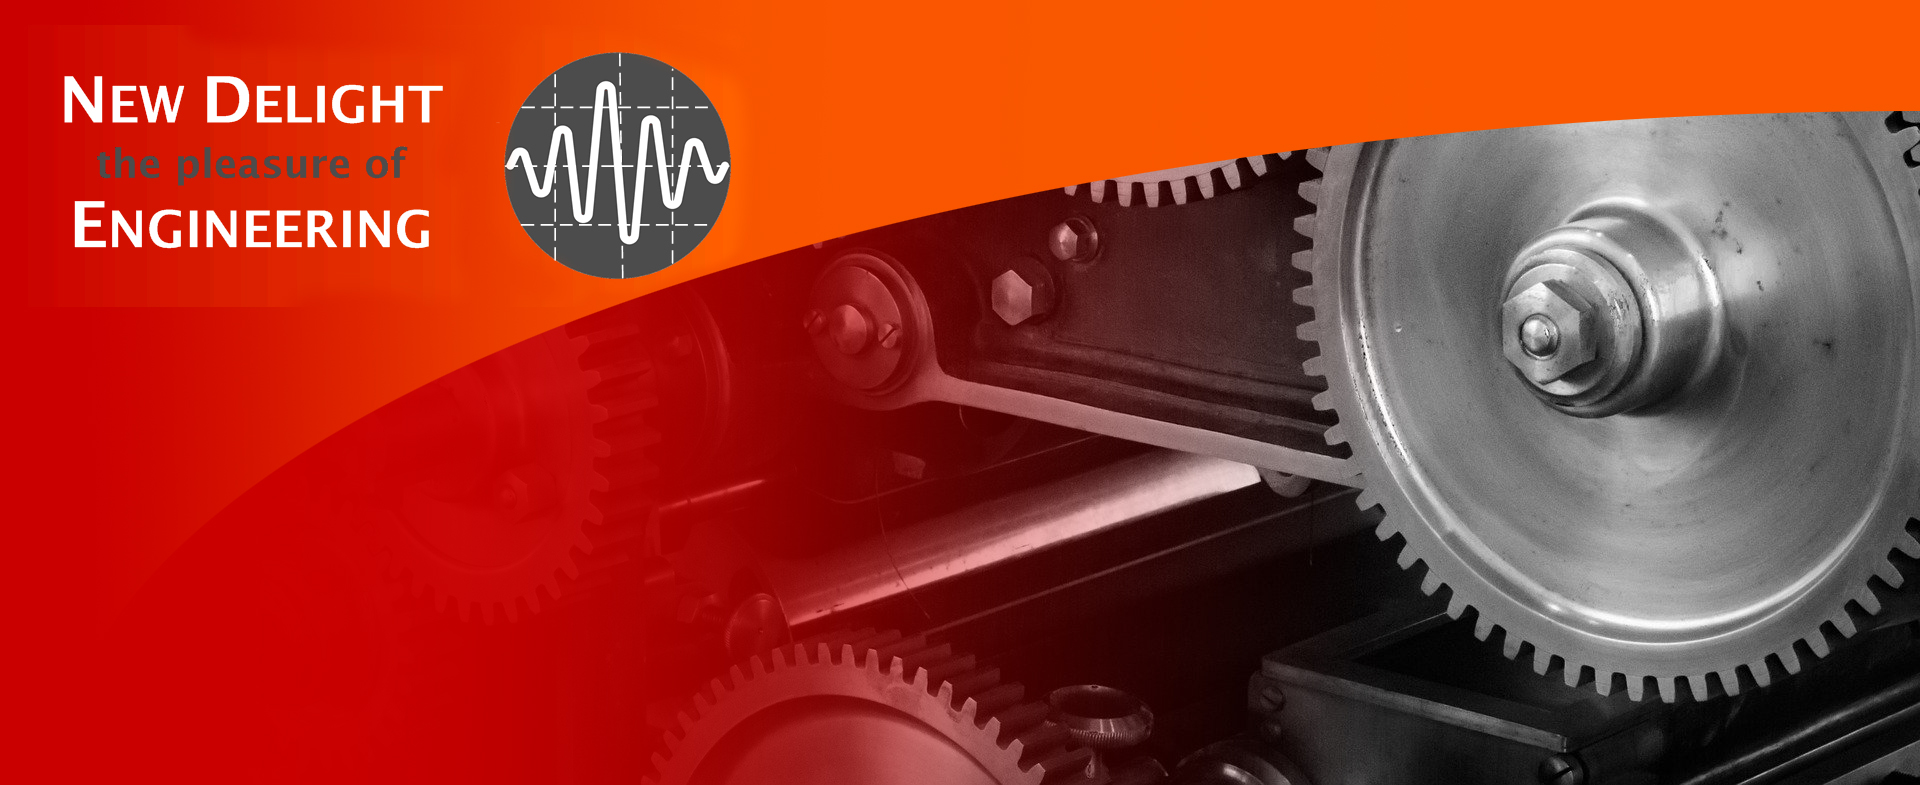
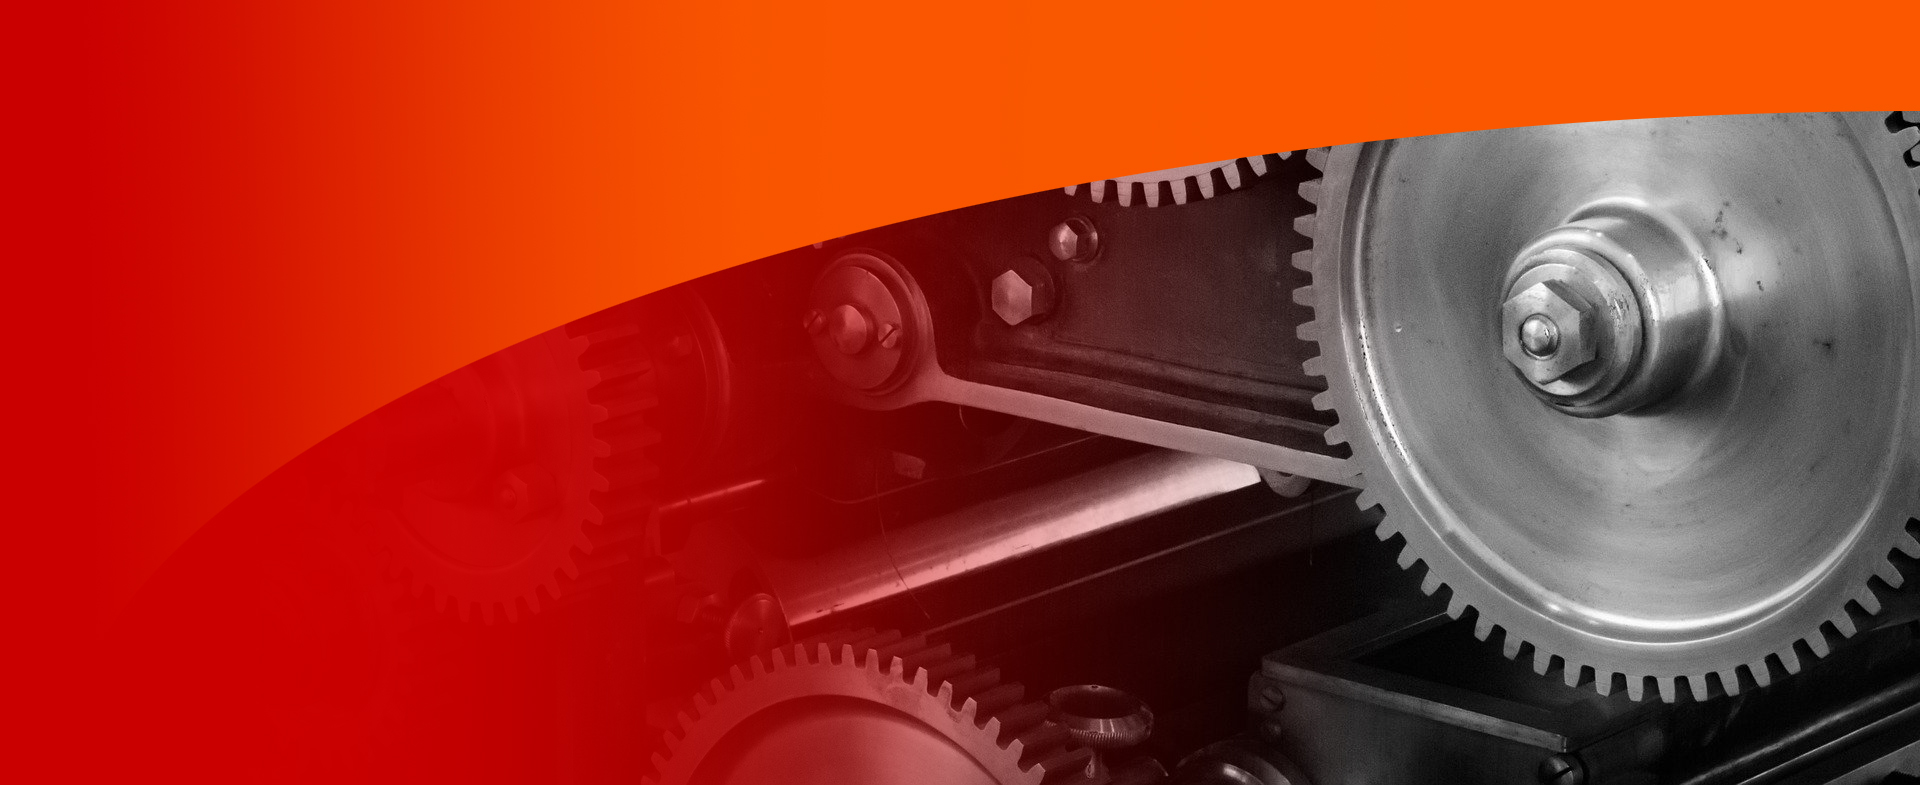
hgjk

Changed region(s): [[0.0312, 0.0611, 0.4062, 0.3669], [0.0312, 0.1834, 0.2188, 0.3363]]

diff --git a/site/layouts/partials/jumbotron.html b/site/layouts/partials/jumbotron.html
@@ -1,14 +1,14 @@
-<div class="pv5 pv6-l ph3 bg-center cover" style="background-image: url('{{.imageUrl}}'); height:250px; padding-top: 8rem">
+<div class="pv5 pv6-l ph3 bg-center cover" style="background-image: url('{{.imageUrl}}'); padding-top: 8rem">
   <div class="mw7 center ph3">
     <div class="db mb3">
       <div class="mw7 relative bg-fix-primary mb3" style="margin-top:-100px">
-        <h1 class="f2 f1-l b di lh-title mb3 white mw6 bg-primary">
+        <h1 class="f2 f1-l b di lh-title mb3 white mw6 bg-primary" style="float:right">
           {{.title}}
         </h1>
       </div>
       <div class="mw7 relative bg-fix-primary">
         {{ if .subtitle }}
-        <p class="b f4 di lh-title mb3 white mw6 bg-primary">
+        <p class="b f4 di lh-title mb3 white mw6 bg-primary" style="float:right">
           {{.subtitle}}
         </p>
         {{ end }}
